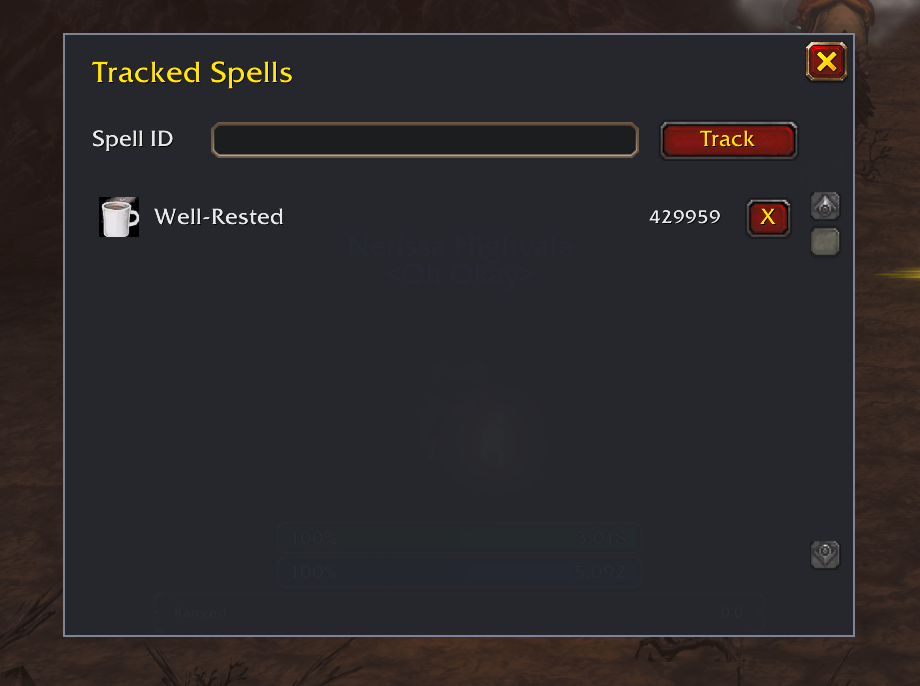
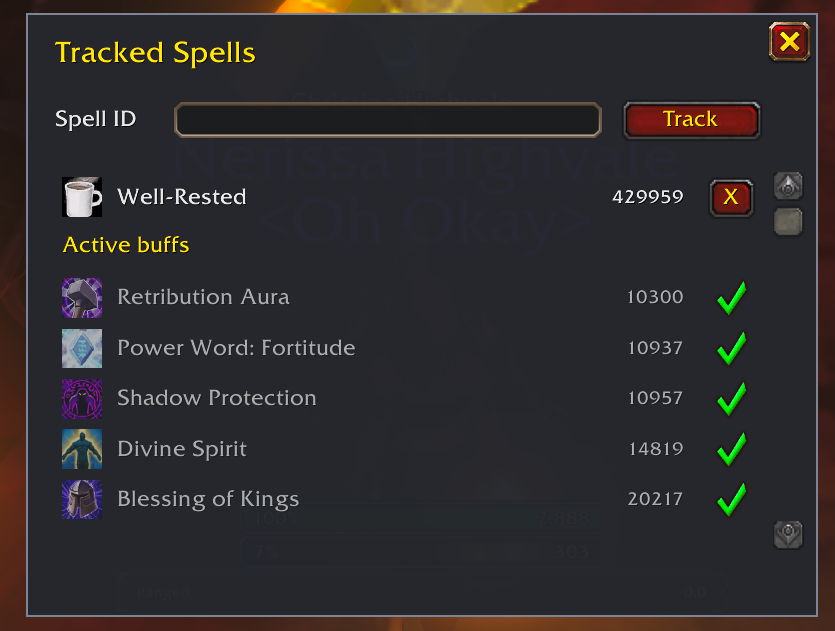
Update the tracking screenshot with active buffs

diff --git a/README.md b/README.md
@@ -32,7 +32,7 @@ The weapon row displays the longest remaining temporary effect across equipped w
 
 Open `/ct tracking` to see each added spell's icon, name, and ID. Under **Active buffs**, click the green checkmark beside a faded row to start tracking it. You can also enter a **buff aura** ID and click **Track** or press Enter. Click the **X** next to a tracked spell to remove it.
 
-<img src="images/ct-tracking.png" alt="The Tracked Spells window showing the Well-Rested icon, name, and spell ID 429959 beside the remove button" width="600">
+<img src="images/ct-tracking.png" alt="The Tracked Spells window showing Well-Rested (429959) above faded active buffs with green checkmarks to add them" width="600">
 
 Using `/ct` or `/ct tracking` in combat shows a warning to open the window after combat.
 
